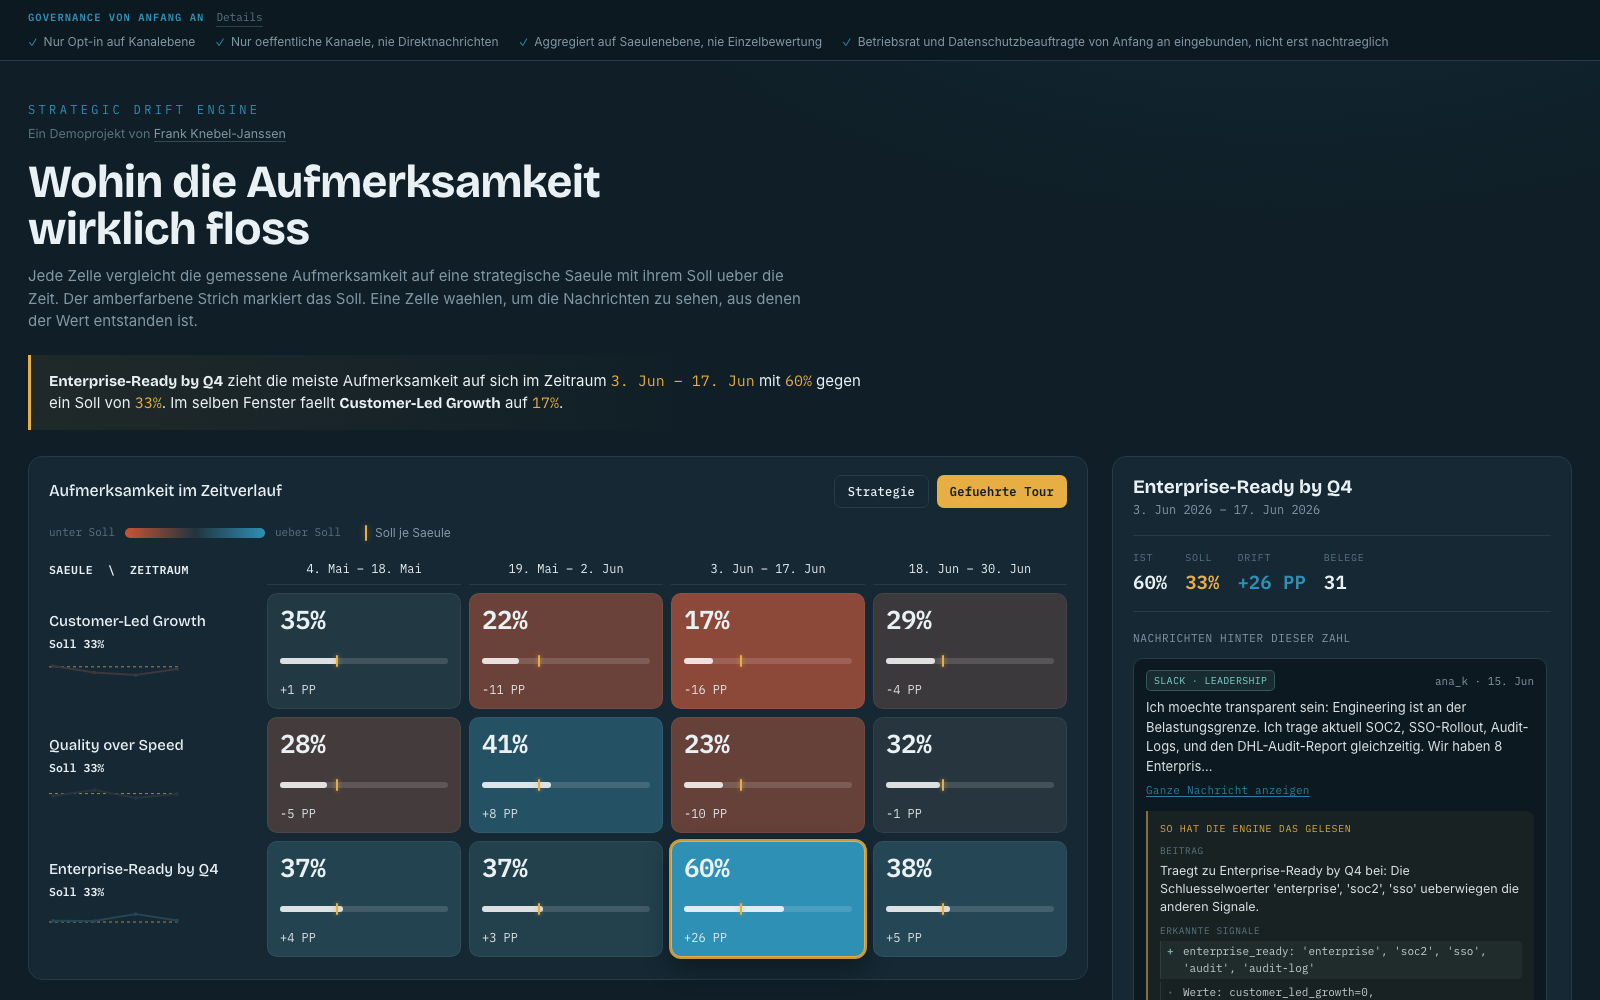
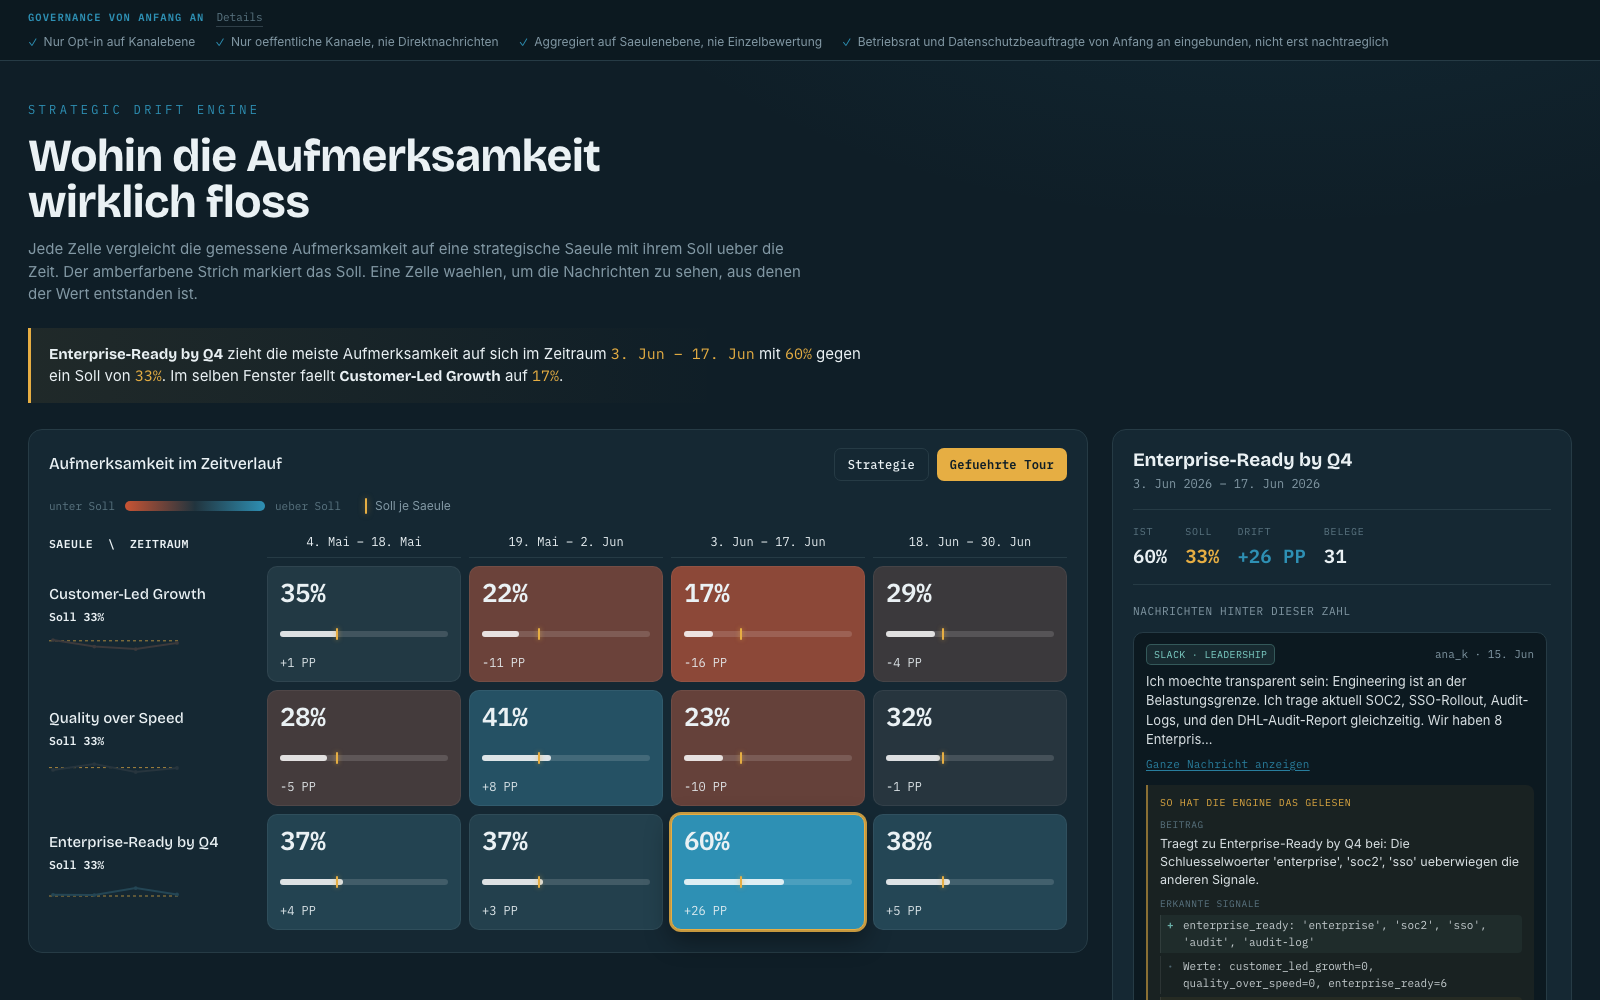
style(frontend): Demoprojekt-Hinweis vom Header in die Fusszeile verschoben

diff --git a/docs/index.html b/docs/index.html
@@ -251,7 +251,6 @@ footer .note{color:var(--faint); opacity:.85}
 <div class="wrap">
   <header>
     <div class="eyebrow">Strategic Drift Engine</div>
-    <div class="byline">Ein Demoprojekt von <a href="https://github.com/frankknebeljanssen-create/strategic-drift-engine" target="_blank" rel="noopener">Frank Knebel-Janssen</a></div>
     <h1>Wohin die Aufmerksamkeit wirklich floss</h1>
     <p class="sub">Jede Zelle vergleicht die gemessene Aufmerksamkeit auf eine strategische Saeule mit ihrem Soll ueber die Zeit. Der amberfarbene Strich markiert das Soll. Eine Zelle waehlen, um die Nachrichten zu sehen, aus denen der Wert entstanden ist.</p>
     <div class="reading" id="reading"></div>
@@ -669,7 +668,8 @@ function renderFoot(){
     '<span class="note">Synthetischer Demo-Datensatz, fiktives Unternehmen TechCo.</span>' + '<span class="dot">•</span>' +
     windows.length+" Zeitfenster" + '<span class="dot">•</span>' + pillars.length+" Saeulen" +
     '<span class="dot">•</span>' + tot+" verknuepfte Belege" + '<span class="dot">•</span>' + "Lauf "+DATA.run_id +
-    '<span class="dot">•</span>' + '<a href="bauprozess.html" target="_blank" rel="noopener" style="color:inherit; text-decoration:underline; text-underline-offset:2px">So wurde das gebaut</a>';
+    '<span class="dot">•</span>' + '<a href="bauprozess.html" target="_blank" rel="noopener" style="color:inherit; text-decoration:underline; text-underline-offset:2px">So wurde das gebaut</a>' +
+    '<span class="dot">•</span>' + 'Ein Demoprojekt von <a href="https://github.com/frankknebeljanssen-create/strategic-drift-engine" target="_blank" rel="noopener" style="color:inherit; text-decoration:underline; text-underline-offset:2px">Frank Knebel-Janssen</a>';
 }
 
 renderGrid(); renderReading(); renderFoot();

diff --git a/docs/build_frontend.py b/docs/build_frontend.py
@@ -273,7 +273,6 @@ footer .note{color:var(--faint); opacity:.85}
 <div class="wrap">
   <header>
     <div class="eyebrow">Strategic Drift Engine</div>
-    <div class="byline">Ein Demoprojekt von <a href="https://github.com/frankknebeljanssen-create/strategic-drift-engine" target="_blank" rel="noopener">Frank Knebel-Janssen</a></div>
     <h1>Wohin die Aufmerksamkeit wirklich floss</h1>
     <p class="sub">Jede Zelle vergleicht die gemessene Aufmerksamkeit auf eine strategische Saeule mit ihrem Soll ueber die Zeit. Der amberfarbene Strich markiert das Soll. Eine Zelle waehlen, um die Nachrichten zu sehen, aus denen der Wert entstanden ist.</p>
     <div class="reading" id="reading"></div>
@@ -691,7 +690,8 @@ function renderFoot(){
     '<span class="note">Synthetischer Demo-Datensatz, fiktives Unternehmen TechCo.</span>' + '<span class="dot">•</span>' +
     windows.length+" Zeitfenster" + '<span class="dot">•</span>' + pillars.length+" Saeulen" +
     '<span class="dot">•</span>' + tot+" verknuepfte Belege" + '<span class="dot">•</span>' + "Lauf "+DATA.run_id +
-    '<span class="dot">•</span>' + '<a href="bauprozess.html" target="_blank" rel="noopener" style="color:inherit; text-decoration:underline; text-underline-offset:2px">So wurde das gebaut</a>';
+    '<span class="dot">•</span>' + '<a href="bauprozess.html" target="_blank" rel="noopener" style="color:inherit; text-decoration:underline; text-underline-offset:2px">So wurde das gebaut</a>' +
+    '<span class="dot">•</span>' + 'Ein Demoprojekt von <a href="https://github.com/frankknebeljanssen-create/strategic-drift-engine" target="_blank" rel="noopener" style="color:inherit; text-decoration:underline; text-underline-offset:2px">Frank Knebel-Janssen</a>';
 }
 
 renderGrid(); renderReading(); renderFoot();
